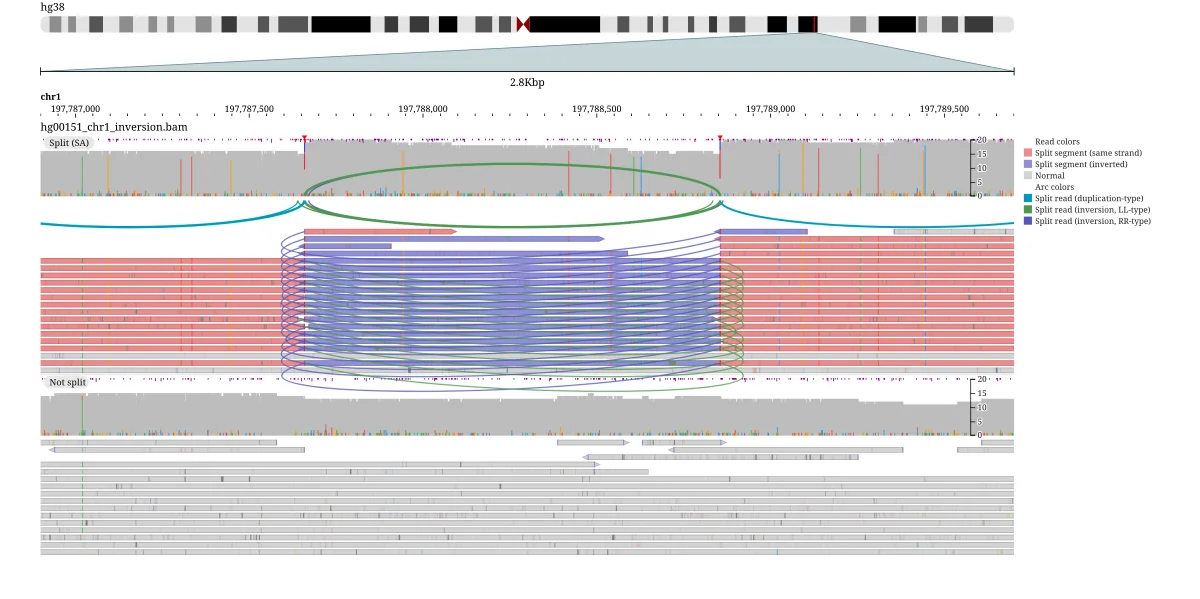
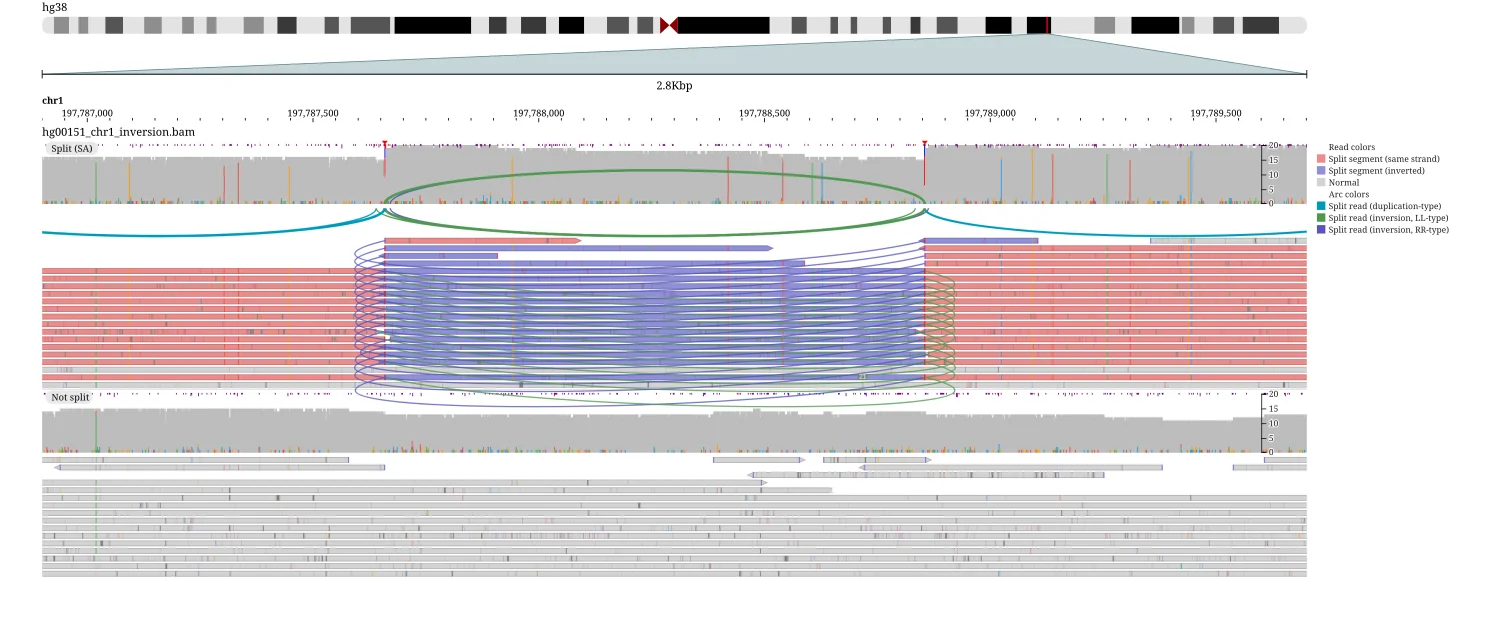
Gallery: jb2export reads each view across 1500 px, the width an R recipe reads its tracks across
jb2export drew each view 1200 px wide while the R recipes read theirs at
ggjbrowse's default 1500, so with the pair shown at one width the R half's
strokes and text drew at 0.78 of the browser's. The amino-acid and
conservation recipes drop the widths they took to match the old 1200. The
inversion pair is redrawn with the connectors at the engine's px, solid.

diff --git a/docs/gallery.md b/docs/gallery.md
@@ -44,7 +44,7 @@ jb2export --fasta inst/extdata/gapdh_hg38.fa.gz \
   --gff inst/extdata/gapdh_gencode.gff3.gz \
   --bam inst/extdata/gapdh_direct_rna.bam legend.show=true heightMode:grow growMaxHeight=2000 \
   --loc chr12:6,534,201-6,538,700 \
-  --width 1200 --out genes_and_reads.png
+  --width 1500 --out genes_and_reads.png
 ```
 
 <a id="long_reads_sv"></a>
@@ -69,7 +69,7 @@ autoplot(jbrowse_alignments(e("colo829_tumor_chr3.bam"),
 jb2export --genome hg38 \
   --bam inst/extdata/colo829_tumor_chr3.bam legend.show=true heightMode:grow growMaxHeight=2000 arcs:down unit=chain encoding.color.field=strand split:only \
   --loc chr3:25,358,500-25,359,800 \
-  --width 1200 --out long_reads_sv.png
+  --width 1500 --out long_reads_sv.png
 ```
 
 <a id="deletion"></a>
@@ -94,7 +94,7 @@ autoplot(jbrowse_alignments(e("hg008t_cuzd1_deletion.bam"),
 jb2export --genome hg38 \
   --bam inst/extdata/hg008t_cuzd1_deletion.bam legend.show=true heightMode:grow growMaxHeight=2000 sort:base \
   --loc chr10:122,831,700-122,840,800 \
-  --width 1200 --out deletion.png
+  --width 1500 --out deletion.png
 ```
 
 <a id="compact_reads"></a>
@@ -120,7 +120,7 @@ autoplot(jbrowse_alignments(e("hg008t_cuzd1_deletion.bam"),
 jb2export --genome hg38 \
   --bam inst/extdata/hg008t_cuzd1_deletion.bam legend.show=true heightMode:grow growMaxHeight=2000 sort:base featureHeight:compact \
   --loc chr10:122,831,700-122,840,800 \
-  --width 1200 --out compact_reads.png
+  --width 1500 --out compact_reads.png
 ```
 
 <a id="base_zoom"></a>
@@ -145,7 +145,7 @@ autoplot(jbrowse_alignments(e("hg008t_cuzd1_deletion.bam"),
 jb2export --genome hg38 \
   --bam inst/extdata/hg008t_cuzd1_deletion.bam legend.show=true heightMode:grow growMaxHeight=2000 sort:base \
   --loc chr10:122,835,300-122,835,420 \
-  --width 1200 --out base_zoom.png
+  --width 1500 --out base_zoom.png
 ```
 
 <a id="inversion"></a>
@@ -171,7 +171,7 @@ autoplot(jbrowse_alignments(e("hg00151_chr1_inversion.bam"),
 jb2export --genome hg38 \
   --bam inst/extdata/hg00151_chr1_inversion.bam legend.show=true heightMode:grow growMaxHeight=2000 arcs:down unit=chain encoding.color.field=insertSizeAndOrientation facet=split coverage.height=80 \
   --loc chr1:197,786,900-197,789,700 \
-  --width 1200 --out inversion.png
+  --width 1500 --out inversion.png
 ```
 
 <a id="methylation"></a>
@@ -197,7 +197,7 @@ autoplot(jbrowse_alignments(e("methylation_clip.bam"), "20:10,001-22,000",
 jb2export --fasta inst/extdata/hg38_clip.fa \
   --bam inst/extdata/methylation_clip.bam baseColor:methylation legend.show=true heightMode:grow growMaxHeight=2000 \
   --loc 20:10,001-22,000 \
-  --width 1200 --out methylation.png
+  --width 1500 --out methylation.png
 ```
 
 <a id="bisulfite"></a>
@@ -236,7 +236,7 @@ jb2export --fasta inst/extdata/arabidopsis_tair10.fa.gz \
   --multiwig gallery/jb2export/methyldackel.json name:MethylDackel legend.show=true \
   --bam inst/extdata/arabidopsis_wgbs.bam baseColor:bisulfite '{"pileup":{"bases":{"filter":[{"field":"context","oneOf":["CHH"]}]}}}' legend.show=true heightMode:grow growMaxHeight=2000 \
   --loc NC_003070.9:4,398,001-4,412,000 \
-  --width 1200 --out bisulfite.png
+  --width 1500 --out bisulfite.png
 ```
 
 <a id="dnase_rows"></a>
@@ -264,7 +264,7 @@ autoplot(jbrowse_wiggle(dnase, "chr11:5,270,001-5,320,000"))
 jb2export --genome hg38 \
   --multiwig gallery/jb2export/dnase.json legend.show=true name:DNase \
   --loc chr11:5,270,001-5,320,000 \
-  --width 1200 --out dnase_rows.png
+  --width 1500 --out dnase_rows.png
 ```
 
 <a id="dnase_clustered"></a>
@@ -295,7 +295,7 @@ autoplot(w)
 jb2export --genome hg38 \
   --multiwig gallery/jb2export/dnase.json legend.show=true name:DNase mark=rect runClustering=true \
   --loc chr11:5,270,001-5,320,000 \
-  --width 1200 --out dnase_clustered.png
+  --width 1500 --out dnase_clustered.png
 ```
 
 <a id="conservation"></a>
@@ -314,10 +314,10 @@ The exons stand out as runs of high scores in bars, in a mean line over its min-
 bw <- e("gapdh_phylop100way.bw")
 gapdh <- "chr12:6,534,201-6,538,700"
 patchwork::wrap_plots(ncol = 1,
-  autoplot(jbrowse_wiggle(bw, gapdh, width = 1100)),
-  autoplot(jbrowse_wiggle(bw, gapdh, width = 1100,
+  autoplot(jbrowse_wiggle(bw, gapdh)),
+  autoplot(jbrowse_wiggle(bw, gapdh,
     display = list(mark = list(type = "line", interpolate = "linear")))),
-  autoplot(jbrowse_wiggle(bw, gapdh, width = 1100,
+  autoplot(jbrowse_wiggle(bw, gapdh,
     display = list(mark = "rect"))))
 ```
 
@@ -327,7 +327,7 @@ jb2export --fasta inst/extdata/gapdh_hg38.fa.gz \
   --bigwig inst/extdata/gapdh_phylop100way.bw mark.type=line mark.interpolate=linear \
   --bigwig inst/extdata/gapdh_phylop100way.bw mark=rect \
   --loc chr12:6,534,201-6,538,700 \
-  --width 1200 --out conservation.png
+  --width 1500 --out conservation.png
 ```
 
 <a id="two_regions"></a>
@@ -357,7 +357,7 @@ jb2export --fasta inst/extdata/gapdh_hg38.fa.gz \
   --bigwig inst/extdata/gapdh_phylop100way.bw legend.show=true \
   --bam inst/extdata/gapdh_direct_rna.bam legend.show=true heightMode:grow growMaxHeight=2000 encoding.color.field=strand \
   --loc 'chr12:6,534,201-6,535,700 chr12:6,537,201-6,538,700' \
-  --width 1200 --out two_regions.png
+  --width 1500 --out two_regions.png
 ```
 
 <a id="amino_acids"></a>
@@ -375,7 +375,7 @@ GAPDH's coding transcripts open MGKVKVGVNG, the last codon split by the intron a
 ```r
 loci <- c("chr12:6,534,811-6,534,880", "chr12:6,536,476-6,536,545")
 genes <- jbrowse_features(e("gapdh_gencode.gff3.gz"), loci,
-  assembly = e("gapdh_hg38.fa.gz"), width = 1200)
+  assembly = e("gapdh_hg38.fa.gz"))
 jbrowse_stack(genes)
 ```
 
@@ -383,7 +383,7 @@ jbrowse_stack(genes)
 jb2export --fasta inst/extdata/gapdh_hg38.fa.gz \
   --gff inst/extdata/gapdh_gencode.gff3.gz heightMode:grow growMaxHeight=2000 \
   --loc 'chr12:6,534,811-6,534,880 chr12:6,536,476-6,536,545' \
-  --width 1200 --out amino_acids.png
+  --width 1500 --out amino_acids.png
 ```
 
 <a id="variants_by_population"></a>
@@ -410,7 +410,7 @@ jb2export --genome hg19 \
   --tracks gallery/jb2export/people.tracks.json \
   --track people \
   --loc 1:155,000,001-155,050,000 \
-  --width 1200 --out variants_by_population.png
+  --width 1500 --out variants_by_population.png
 ```
 
 <a id="variants_clustered"></a>
@@ -438,7 +438,7 @@ jb2export --genome hg19 \
   --tracks gallery/jb2export/people.tracks.json \
   --track people runClustering=true \
   --loc 1:155,000,001-155,050,000 \
-  --width 1200 --out variants_clustered.png
+  --width 1500 --out variants_clustered.png
 ```
 
 <a id="variants_banded"></a>
@@ -469,7 +469,7 @@ jb2export --genome hg19 \
   --tracks gallery/jb2export/people.tracks.json \
   --track people variantLayout=genomic facet=superpopulation runClustering=true \
   --loc 1:155,000,001-155,050,000 \
-  --width 1200 --out variants_banded.png
+  --width 1500 --out variants_banded.png
 ```
 
 <a id="collapsed_introns"></a>
@@ -503,7 +503,7 @@ jb2export --fasta inst/extdata/gapdh_hg38.fa.gz \
   --gff inst/extdata/gapdh_gencode.gff3.gz \
   --bam inst/extdata/gapdh_direct_rna.bam sashimi:auto encoding.color.field=strand legend.show=true heightMode:grow growMaxHeight=2000 \
   --loc 'chr12:6534497-6534589 chr12:6534790-6534881 chr12:6536474-6536613 chr12:6536664-6536810 chr12:6536900-6537030 chr12:6537081-6537236 chr12:6537289-6537410 chr12:6537564-6538016 chr12:6538081-6538391' \
-  --width 1200 --out collapsed_introns.png
+  --width 1500 --out collapsed_introns.png
 ```
 
 <a id="inversion_synteny"></a>
@@ -532,7 +532,7 @@ jb2export synteny \
   --chain inst/extdata/hg002_chr8.chain \
   --chromSizes gallery/jb2export/paternal.chrom.sizes loc:chr8_PATERNAL:5,250,001-14,250,000 \
   --view encoding.color.field=strand \
-  --width 1200 --out inversion_synteny.png
+  --width 1500 --out inversion_synteny.png
 ```
 
 <a id="inversion_dotplot"></a>
@@ -559,7 +559,7 @@ jb2export dotplot \
   --chain inst/extdata/hg002_chr8.chain \
   --chromSizes gallery/jb2export/paternal.chrom.sizes \
   --view encoding.color.field=strand \
-  --width 1200 --out inversion_dotplot.png
+  --width 1500 --out inversion_dotplot.png
 ```
 
 <a id="whole_genome"></a>
@@ -584,7 +584,7 @@ jb2export dotplot \
   --chromSizes gallery/jb2export/peach.chrom.sizes \
   --paf inst/extdata/peach_grape.paf.gz \
   --chromSizes gallery/jb2export/grape.chrom.sizes \
-  --width 1200 --out whole_genome.png
+  --width 1500 --out whole_genome.png
 ```
 
 <a id="amylase_synteny"></a>
@@ -613,7 +613,7 @@ jb2export synteny \
   --paf inst/extdata/hprc_amylase.paf \
   --chromSizes gallery/jb2export/HG00133.chrom.sizes 'loc:HG00133#1#CM090045.1:103,669,666-103,981,330' \
   --view encoding.color.field=strand \
-  --width 1200 --out amylase_synteny.png
+  --width 1500 --out amylase_synteny.png
 ```
 
 <a id="amylase_zoom"></a>
@@ -642,7 +642,7 @@ jb2export synteny \
   --paf inst/extdata/hprc_amylase.paf \
   --chromSizes gallery/jb2export/HG00133.chrom.sizes 'loc:HG00133#1#CM090045.1:103,768,401-103,771,400' \
   --view encoding.color.field=strand \
-  --width 1200 --out amylase_zoom.png
+  --width 1500 --out amylase_zoom.png
 ```
 
 <a id="synteny_genes"></a>
@@ -674,7 +674,7 @@ autoplot(s, above = gene_track("hg002_mat_genes.gff3.gz", "chr8_MATERNAL"),
 ```sh
 jb2export --config gallery/jb2export/synteny_genes.config.json \
   --spec gallery/jb2export/synteny_genes.spec.json \
-  --width 1200 --out synteny_genes.png
+  --width 1500 --out synteny_genes.png
 ```
 
 <a id="multiway"></a>
@@ -709,6 +709,6 @@ jb2export --config gallery/jb2export/multiway.config.json \
   --assembly hg38 \
   --track primates \
   --loc chr17:7,400,001-7,700,000 \
-  --width 1200 --out multiway.png
+  --width 1500 --out multiway.png
 ```
 
